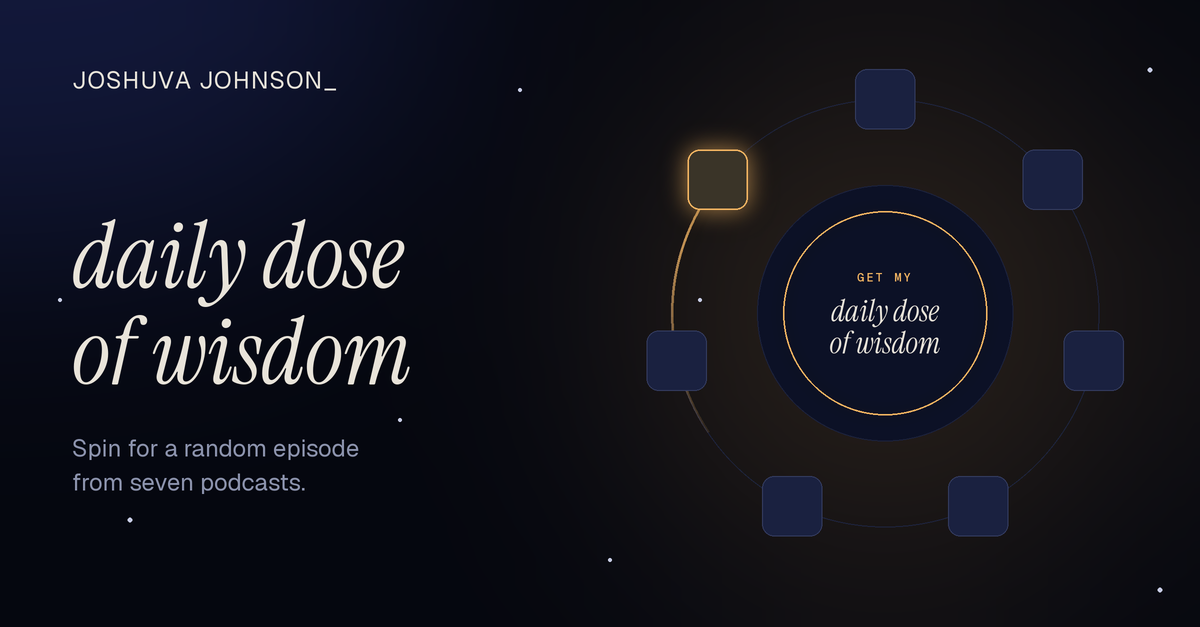
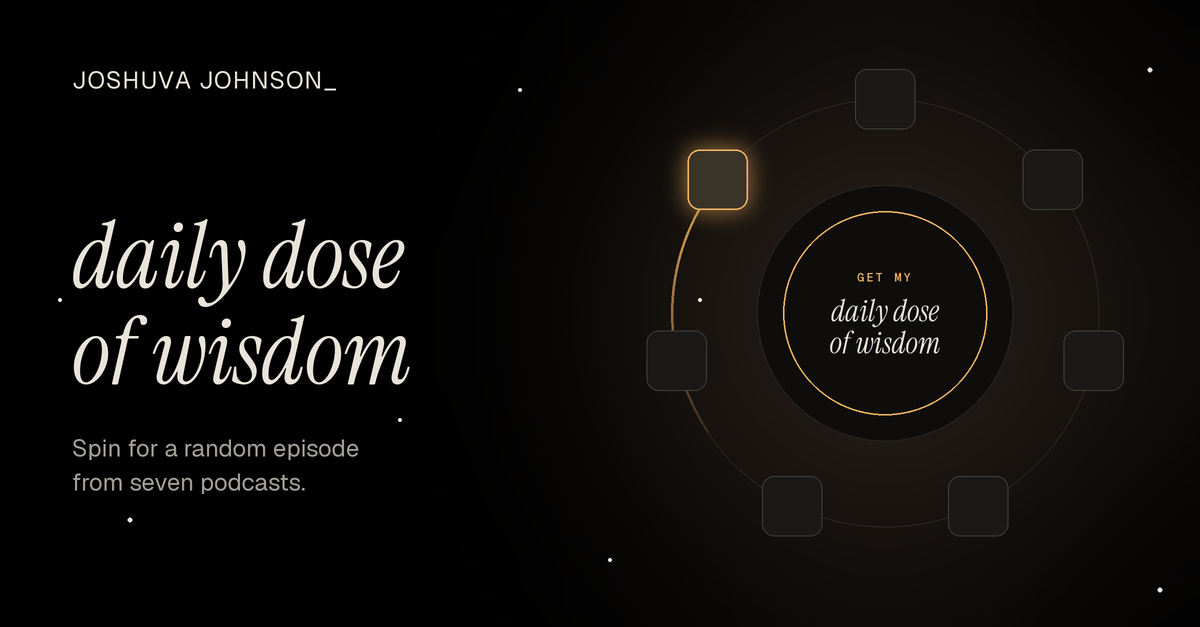
daily dose of wisdom: black hole entrance, black theme, live star field
- Entrance (about 2.5 s, click or key to skip): light spirals into a black
  centre with a bright rim and a spinning disc, the black swallows the
  screen, a flash, and the page untwists into focus.
- Black and neutral greys replace the navy and violet; lamp amber and
  starlight text kept. Door from other pages is black with a rim of light.
- Stars drawn on a canvas: each twinkles on its own clock, random ones
  flare with a glint, and a shooting star crosses every 2.5-7 s.
- Lamp glow moved behind the wheel (the fixed drifting layer cost frames).

Claude-Session: https://claude.ai/code/session_01Dc4KQMDr4px4SMpMrXU2Lh

diff --git a/assets/wisdom.css b/assets/wisdom.css
@@ -1,41 +1,34 @@
 /* daily dose of wisdom: a different room from the rest of the site.
-   Midnight, starlight text, and one warm lamp-light colour for whatever is lit.
+   Black, starlight text, and one warm lamp-light colour for whatever is lit.
    The name is always set in lowercase Instrument Serif italic; Geist and Geist Mono for everything you press.
    Everything that moves is transform or opacity, so the GPU does the work. */
 
 @font-face{font-family:"Instrument Serif";font-style:italic;font-weight:400;font-display:swap;src:url(/assets/fonts/instrument-serif-latin-400-italic.woff2) format("woff2")}
 @font-face{font-family:"Instrument Serif";font-style:normal;font-weight:400;font-display:swap;src:url(/assets/fonts/instrument-serif-latin-400-normal.woff2) format("woff2")}
 
-:root:has(body.wisdom){color-scheme:dark;background:#05070F}
+:root:has(body.wisdom){color-scheme:dark;background:#000}
 body.wisdom{
-  --night:#05070F;
-  --navy:#0B1022;
+  --night:#000;
+  --navy:#121110;
   --star:#E9E4DA;
-  --mist:#8C93AD;
+  --mist:#A29D97;
   --lamp:#F3B562;
   --lamp-rgb:243,181,98;
   --serif:"Instrument Serif",Georgia,"Times New Roman",serif;
   --orbit:240s;
-  --bg:var(--night);--ink:var(--star);--ink2:var(--mist);--rule:#1A2140;--surface:var(--navy);--quiet:#3A4266;--panel:var(--night);
-  color-scheme:dark;background:var(--night);color:var(--star)
+  --bg:var(--night);--ink:var(--star);--ink2:var(--mist);--rule:#2E2B28;--surface:#141312;--quiet:#4A4642;--panel:var(--night);
+  color-scheme:dark;background:none;color:var(--star) /* the black lives on the root, so the sky can sit behind the page */
 }
 .wisdom ::selection{background:var(--lamp);color:var(--night)}
 .wisdom :focus-visible{outline-color:var(--lamp)}
 .wisdom main{position:relative;overflow:hidden}
+.wisdom footer{background:#000;border-top:1px solid #1C1A18}
 
-/* ---------- The sky: lamp glow behind the wheel, indigo haze that drifts, stars that twinkle ---------- */
-.wisdom main::before{content:"";position:fixed;inset:-10%;z-index:-2;pointer-events:none;background:
-  radial-gradient(40% 36% at 50% 56%,rgba(var(--lamp-rgb),.11),transparent 70%),
-  radial-gradient(60% 50% at 18% 2%,rgba(72,88,180,.26),transparent 70%),
-  radial-gradient(55% 45% at 92% 98%,rgba(96,66,170,.2),transparent 70%);
-  animation:wz-drift 38s ease-in-out infinite alternate}
-@keyframes wz-drift{to{transform:translate3d(-3%,2%,0) scale(1.06)}}
-.wz-sky{position:fixed;inset:0;z-index:-1;pointer-events:none}
-.wz-sky i{position:absolute;inset:0;animation:wz-twinkle 6s ease-in-out infinite alternate}
-.wz-sky i:nth-child(1){background:radial-gradient(1px 1px at 23px 41px,#fff,transparent),radial-gradient(1px 1px at 131px 97px,#cfd6ff,transparent);background-size:211px 199px,263px 241px;opacity:.55}
-.wz-sky i:nth-child(2){background:radial-gradient(1.5px 1.5px at 71px 163px,#fff,transparent),radial-gradient(1px 1px at 197px 19px,#ffe9c7,transparent);background-size:317px 283px,379px 331px;animation-duration:8.5s;animation-delay:-3s}
-.wz-sky i:nth-child(3){background:radial-gradient(2px 2px at 150px 90px,rgba(255,240,215,.9),transparent),radial-gradient(1.5px 1.5px at 40px 260px,#dfe4ff,transparent);background-size:523px 467px,601px 557px;animation-duration:11s;animation-delay:-6s}
-@keyframes wz-twinkle{0%{opacity:.15}100%{opacity:.85}}
+/* ---------- The sky: black, a faint lamp glow behind the wheel, and a canvas of stars drawn by the script ---------- */
+/* The lamp glow sits behind the wheel itself, so it costs nothing per frame. */
+.wz-stage::before{content:"";position:absolute;left:50%;top:50%;width:150%;aspect-ratio:1;transform:translate(-50%,-50%);z-index:-1;pointer-events:none;
+  background:radial-gradient(closest-side,rgba(var(--lamp-rgb),.12),rgba(var(--lamp-rgb),.04) 55%,transparent 75%)}
+.wz-sky{position:fixed;inset:0;width:100%;height:100%;z-index:-1;pointer-events:none}
 
 /* ---------- Title ---------- */
 .wz{text-align:center;padding-block:40px 88px}
@@ -82,7 +75,7 @@ body.wisdom{
 
 /* ---------- The hub: idle, it is the button; spinning, it calls out each show as the light passes ---------- */
 .wz-hub{position:absolute;left:50%;top:50%;width:62%;aspect-ratio:1;transform:translate(-50%,-50%);border-radius:50%;
-  background:radial-gradient(circle at 50% 38%,#141C3A 0,#0A0F22 55%,#070A17 100%);
+  background:radial-gradient(circle at 50% 38%,#1B1A18 0,#0D0C0B 55%,#050505 100%);
   box-shadow:0 0 0 1px rgba(233,228,218,.08),inset 0 0 60px rgba(0,0,0,.6),0 30px 80px -30px #000;display:grid;place-items:center}
 .wz-hub>*{grid-area:1/1}
 .wz-shock{position:absolute;inset:0;border-radius:50%;border:1px solid rgba(var(--lamp-rgb),.9);opacity:0;pointer-events:none}
@@ -131,7 +124,7 @@ body.wisdom{
   .wz-hub-cover{display:none}
 }
 @container wz (max-width:589px){
-  .wz-card{margin:28px auto 0;max-width:440px;padding:20px;border-radius:16px;background:linear-gradient(180deg,rgba(20,28,58,.85),rgba(10,15,34,.85));
+  .wz-card{margin:28px auto 0;max-width:440px;padding:20px;border-radius:16px;background:linear-gradient(180deg,rgba(28,27,25,.9),rgba(12,12,11,.9));
     box-shadow:0 0 0 1px rgba(233,228,218,.08),0 0 40px -10px rgba(var(--lamp-rgb),.25)}
   .wz-show{border-radius:10px}
   .wz-spin{gap:4px}
@@ -140,25 +133,45 @@ body.wisdom{
 }
 @media(max-width:640px){.wz{padding-block:32px 72px}.wz-pre{font-size:16px;line-height:24px}.wz-stage{margin-top:24px}.wz-credit{margin-top:40px}}
 
-/* ---------- The way in: a point of light opens into the room, and the page comes through it ---------- */
+/* ---------- The way in: a black hole ----------
+   Light spirals in, a disc of it spins round a black centre with a thin bright rim, then the black swallows the
+   screen, there is a flash, and the page comes out the other side. About 2.5 s; a click or key skips it. */
 .wz-portal{display:none}
-.portal .wz-portal{display:block;position:fixed;inset:0;z-index:100;pointer-events:none;background:var(--night,#05070F);
-  animation:wz-portal-fade .6s ease-out .75s forwards}
-/* Both layers are drawn at full size and grown from a point, so the ring stays a fine line as it opens. */
-.wz-portal i,.wz-portal b{position:absolute;left:50%;top:50%;width:260vmax;height:260vmax;margin:-130vmax 0 0 -130vmax;border-radius:50%;will-change:transform,opacity}
-.wz-portal i{background:radial-gradient(closest-side,#FFF4E0 0,rgba(var(--lamp-rgb),.7) 8%,rgba(var(--lamp-rgb),.18) 30%,rgba(var(--lamp-rgb),0) 60%);animation:wz-bloom 1.2s cubic-bezier(.55,0,.15,1) both}
-.wz-portal b{background:radial-gradient(closest-side,transparent calc(100% - 14px),rgba(var(--lamp-rgb),.25) calc(100% - 7px),rgba(255,232,196,.95) calc(100% - 2px),transparent 100%);animation:wz-ring 1.15s cubic-bezier(.3,0,.1,1) .06s both}
-@keyframes wz-bloom{0%{transform:scale(0);opacity:0}25%{transform:scale(.04);opacity:1}100%{transform:scale(1);opacity:0}}
-@keyframes wz-ring{0%{transform:scale(0);opacity:0}12%{opacity:1}100%{transform:scale(.62);opacity:0}}
-@keyframes wz-portal-fade{to{opacity:0;visibility:hidden}}
-.portal .wz{animation:wz-warp 1.05s cubic-bezier(.16,.84,.24,1) .5s both}
-@keyframes wz-warp{from{opacity:0;transform:scale(1.07);filter:blur(12px)}}
+.portal .wz-portal{display:block;position:fixed;inset:0;z-index:100;background:#000;overflow:hidden;cursor:pointer;
+  animation:wz-portal-out .55s ease-out 2.25s forwards}
+@keyframes wz-portal-out{to{opacity:0;visibility:hidden}}
+.portal-skip .wz-portal{display:none}
+.wz-infall{position:absolute;inset:0;width:100%;height:100%}
+.bh{position:absolute;left:50%;top:50%;border-radius:50%;pointer-events:none;will-change:transform,opacity}
+.bh-glow{width:130vmin;height:130vmin;margin:-65vmin 0 0 -65vmin;
+  background:radial-gradient(closest-side,rgba(var(--lamp-rgb),.32),rgba(var(--lamp-rgb),.1) 42%,transparent 72%);animation:bh-glow 2.4s ease-in-out both}
+@keyframes bh-glow{0%{opacity:0;transform:scale(.25)}35%{opacity:1;transform:scale(1)}70%{opacity:1;transform:scale(1.08)}100%{opacity:0;transform:scale(2.6)}}
+/* The disc: the outer box grows, falls past you and fades; the inner ring spins. */
+.bh-disk{width:66vmin;height:66vmin;margin:-33vmin 0 0 -33vmin;animation:bh-disk 2.4s cubic-bezier(.5,0,.35,1) both}
+.bh-disk i{position:absolute;inset:0;border-radius:50%;
+  background:conic-gradient(rgba(var(--lamp-rgb),0),#FFEBCB 7%,rgba(var(--lamp-rgb),.75) 16%,rgba(var(--lamp-rgb),.06) 30%,rgba(255,226,180,.85) 44%,rgba(var(--lamp-rgb),.3) 58%,rgba(var(--lamp-rgb),0) 70%,rgba(255,240,215,.9) 85%,rgba(var(--lamp-rgb),0));
+  -webkit-mask:radial-gradient(closest-side,transparent 41%,#000 46%,rgba(0,0,0,.55) 64%,transparent 100%);
+  mask:radial-gradient(closest-side,transparent 41%,#000 46%,rgba(0,0,0,.55) 64%,transparent 100%);
+  animation:wz-turn .9s linear infinite}
+@keyframes bh-disk{0%{opacity:0;transform:scale(.12) rotate(-60deg)}30%{opacity:1;transform:scale(1) rotate(0)}62%{opacity:1;transform:scale(1.05)}90%{opacity:.85;transform:scale(5)}100%{opacity:0;transform:scale(6.5)}}
+/* The event horizon: black, edged with a fine ring of light; at the end it grows until it is all you can see. */
+.bh-core{width:28vmin;height:28vmin;margin:-14vmin 0 0 -14vmin;
+  background:radial-gradient(closest-side,#000 0 92.5%,#FFF2DC 95%,rgba(var(--lamp-rgb),.55) 97%,transparent 100%);animation:bh-core 2.4s cubic-bezier(.62,0,.38,1) both}
+@keyframes bh-core{0%{transform:scale(0)}28%{transform:scale(1)}60%{transform:scale(1.08)}92%,100%{transform:scale(14)}}
+.bh-flash{position:absolute;inset:0;opacity:0;pointer-events:none;
+  background:radial-gradient(circle at 50% 50%,rgba(255,246,228,.95),rgba(var(--lamp-rgb),.4) 34%,transparent 72%);animation:bh-flash .6s ease-out 2.05s both}
+@keyframes bh-flash{0%{opacity:0}30%{opacity:1}100%{opacity:0}}
+/* Out the other side: the page untwists and comes into focus. */
+.portal .wz{animation:wz-warp 1.05s cubic-bezier(.16,.84,.24,1) 2.15s both}
+.portal-skip .wz{animation:none}
+@keyframes wz-warp{from{opacity:0;transform:scale(1.32) rotate(-9deg);filter:blur(18px)}}
 /* Then lamp light runs once along the name. */
-.wz-title{animation:wz-sheen 1.8s cubic-bezier(.4,0,.2,1) 1.3s both}
+.wz-title{animation:wz-sheen 1.8s cubic-bezier(.4,0,.2,1) 3.1s both}
+.portal-skip .wz-title{animation-delay:.3s}
 @keyframes wz-sheen{from{background-position:100% 0}to{background-position:0 0}}
 
 @media(prefers-reduced-motion:reduce){
   .portal .wz-portal{display:none}
-  .wz-card.in,.wz-title,.wisdom main::before,.wz-sky i,.wz-ring,.wz-up,.wz-spin::after{animation:none}
+  .wz-card.in,.wz-title,.wz-ring,.wz-up,.wz-spin::after{animation:none}
   .wz-title{background-position:0 0}
 }

diff --git a/assets/wisdom.js b/assets/wisdom.js
@@ -15,9 +15,131 @@
   const card = $('.wz-card'), cover = $('.wz-cover'), showName = $('.wz-show-name'), meta = $('.wz-meta');
   const title = $('.wz-ep'), audio = $('.wz-audio'), again = $('.wz-again'), apple = $('.wz-apple'), live = $('.wz-live');
 
-  // The entrance is pure CSS; take the overlay away once it has played so it never sits over the page.
+  const html = document.documentElement;
+  const rnd = (a, b) => a + Math.random() * (b - a);
+
+  // ---------- The way in: light spirals into the black hole, timed off the CSS animation of its centre ----------
   const portal = document.querySelector('.wz-portal');
-  if (portal) setTimeout(() => portal.remove(), reduce ? 0 : 1600);
+  if (portal) {
+    const done = () => { if (portal.isConnected) portal.remove(); };
+    if (reduce || !html.classList.contains('portal')) done();
+    else {
+      const core = portal.querySelector('.bh-core'), cv = portal.querySelector('.wz-infall'), c = cv.getContext && cv.getContext('2d');
+      const coreAnim = core.getAnimations ? core.getAnimations()[0] : null;
+      const t0 = performance.now();
+      const clock = () => (coreAnim && coreAnim.currentTime != null ? coreAnim.currentTime : performance.now() - t0) / 1000;
+      let running = !!c;
+      if (c) {
+        const D = Math.min(1.5, devicePixelRatio || 1), W = innerWidth, H = innerHeight, cx = W / 2, cy = H / 2;
+        cv.width = W * D; cv.height = H * D; c.setTransform(D, 0, 0, D, 0, 0);
+        const rMax = Math.hypot(W, H) / 2 * 1.05, horizon = Math.min(W, H) * 0.14; // the CSS centre is 28vmin across
+        const coreR = t => { // follows the bh-core keyframes closely enough to swallow the light at the rim
+          const k = t / 2.4;
+          if (k < 0.28) return horizon * Math.sin(k / 0.28 * Math.PI / 2);
+          if (k < 0.6) return horizon * (1 + 0.08 * (k - 0.28) / 0.32);
+          return horizon * (1.08 + 12.92 * Math.pow(Math.min(1, (k - 0.6) / 0.32), 2.2));
+        };
+        const tones = ['255,246,230', '255,232,196', '243,181,98', '255,214,160'];
+        const n = Math.min(420, Math.round(W * H / 3200));
+        const spawn = (p, outer) => {
+          p.a = rnd(0, Math.PI * 2); p.r = outer ? rMax * rnd(0.9, 1.1) : rMax * rnd(0.25, 1.1);
+          p.w = rnd(0.5, 1.7); p.v = rnd(0.6, 1.4); p.tone = tones[Math.floor(Math.random() * tones.length)]; p.age = 0;
+          return p;
+        };
+        const ps = Array.from({length: n}, () => spawn({}, false));
+        let last = clock();
+        const frame = () => {
+          if (!running) return;
+          const t = clock(), dt = Math.min(0.05, Math.max(0, t - last)); last = t;
+          c.fillStyle = 'rgba(0,0,0,0.24)'; c.fillRect(0, 0, W, H); // short trails
+          const rc = coreR(t);
+          c.lineCap = 'round';
+          for (const p of ps) {
+            if (p.dead) continue;
+            const x0 = cx + Math.cos(p.a) * p.r, y0 = cy + Math.sin(p.a) * p.r;
+            const pull = (0.35 + 2.6 * Math.pow(rMax / Math.max(p.r, 1), 0.9)) * p.v * (0.6 + t * 0.9);
+            p.r -= p.r * pull * dt * 0.55;
+            p.a += pull * dt * 0.9; // the closer it gets, the faster it turns
+            p.age += dt;
+            if (p.r <= rc * 1.02) { if (t < 1.55) spawn(p, true); else p.dead = true; continue; }
+            const x1 = cx + Math.cos(p.a) * p.r, y1 = cy + Math.sin(p.a) * p.r;
+            const alpha = Math.min(1, p.age * 3) * Math.min(1, 0.25 + 1.4 * (1 - p.r / rMax));
+            c.strokeStyle = `rgba(${p.tone},${alpha.toFixed(3)})`; c.lineWidth = p.w;
+            c.beginPath(); c.moveTo(x0, y0); c.lineTo(x1, y1); c.stroke();
+          }
+          if (t < 2.4) requestAnimationFrame(frame); else running = false;
+        };
+        requestAnimationFrame(frame);
+      }
+      const skip = () => { running = false; html.classList.add('portal-skip'); done(); };
+      portal.addEventListener('pointerdown', skip, {once: true});
+      addEventListener('keydown', function k(e) { if (!portal.isConnected) return removeEventListener('keydown', k); if (!e.metaKey && !e.ctrlKey && !e.altKey) skip(); });
+      setTimeout(() => { running = false; done(); }, 3000);
+    }
+  }
+
+  // ---------- The sky: every star keeps its own time, some flare at random, and now and then one falls ----------
+  const sky = document.querySelector('.wz-sky');
+  const ctx = sky && sky.getContext && sky.getContext('2d');
+  if (ctx) {
+    const tones = ['255,250,240', '255,238,212', '233,228,218', '255,214,160'];
+    let W = 0, H = 0, stars = [], meteors = [], nextMeteor = performance.now() + rnd(2500, 5000), lastDraw = 0;
+    const build = () => {
+      const D = Math.min(1.5, devicePixelRatio || 1);
+      W = innerWidth; H = innerHeight; sky.width = W * D; sky.height = H * D; ctx.setTransform(D, 0, 0, D, 0, 0);
+      stars = Array.from({length: Math.min(260, Math.round(W * H / 6500))}, () => ({
+        x: Math.random() * W, y: Math.random() * H, r: Math.random() < 0.86 ? rnd(0.35, 0.95) : rnd(1.05, 1.7),
+        a: rnd(0.12, 0.6), s: rnd(0.25, 1.4), p: rnd(0, 6.283), c: tones[Math.floor(Math.random() * tones.length)], f: 0, fd: 0}));
+    };
+    const draw = now => {
+      ctx.clearRect(0, 0, W, H);
+      for (const s of stars) {
+        let k = 0;
+        if (!s.f && Math.random() < 0.0009) { s.f = now; s.fd = rnd(700, 1600); } // a random star flares
+        if (s.f) { const q = (now - s.f) / s.fd; if (q >= 1) s.f = 0; else k = Math.sin(Math.PI * q); }
+        const tw = s.a * (0.55 + 0.45 * Math.sin(now / 1000 * s.s + s.p));
+        const al = Math.min(1, tw + k * 0.95), r = s.r * (1 + k * 0.9);
+        ctx.fillStyle = `rgba(${s.c},${al.toFixed(3)})`;
+        ctx.beginPath(); ctx.arc(s.x, s.y, r, 0, 6.283); ctx.fill();
+        if (k > 0.25) { // the glint of a flaring star
+          const g = r * 7 * k;
+          ctx.strokeStyle = `rgba(${s.c},${(k * 0.55).toFixed(3)})`; ctx.lineWidth = 0.7;
+          ctx.beginPath(); ctx.moveTo(s.x - g, s.y); ctx.lineTo(s.x + g, s.y); ctx.moveTo(s.x, s.y - g); ctx.lineTo(s.x, s.y + g); ctx.stroke();
+        }
+      }
+      if (now > nextMeteor) { // a shooting star, from the top half, slanting down either way
+        const dir = Math.random() < 0.5 ? -1 : 1, ang = rnd(0.32, 0.62), sp = rnd(800, 1300);
+        meteors.push({x: rnd(W * 0.15, W * 0.85), y: rnd(-20, H * 0.35), vx: Math.cos(ang) * sp * dir, vy: Math.sin(ang) * sp, len: rnd(140, 280), t0: now, life: rnd(700, 1100)});
+        nextMeteor = now + rnd(2500, 7000);
+      }
+      meteors = meteors.filter(m => now - m.t0 < m.life);
+      for (const m of meteors) {
+        const e = (now - m.t0) / 1000, q = (now - m.t0) / m.life, al = Math.sin(Math.PI * q);
+        const hx = m.x + m.vx * e, hy = m.y + m.vy * e, sp = Math.hypot(m.vx, m.vy), L = m.len * Math.min(1, q * 3);
+        const tx = hx - m.vx / sp * L, ty = hy - m.vy / sp * L;
+        const gr = ctx.createLinearGradient(tx, ty, hx, hy);
+        gr.addColorStop(0, 'rgba(255,236,205,0)'); gr.addColorStop(1, `rgba(255,246,228,${al.toFixed(3)})`);
+        ctx.strokeStyle = gr; ctx.lineWidth = 1.6; ctx.lineCap = 'round';
+        ctx.beginPath(); ctx.moveTo(tx, ty); ctx.lineTo(hx, hy); ctx.stroke();
+        ctx.fillStyle = `rgba(255,248,235,${al.toFixed(3)})`; ctx.beginPath(); ctx.arc(hx, hy, 1.6, 0, 6.283); ctx.fill();
+      }
+    };
+    build();
+    if (reduce) draw(0); // a still sky
+    else {
+      const loop = now => {
+        // Full rate while a star is falling, half rate otherwise (it only twinkles),
+        // and the sky holds still while the wheel spins so the spin gets every frame.
+        const busy = root.dataset.state === 'spinning';
+        if (busy) nextMeteor = Math.max(nextMeteor, now + 1500);
+        if (meteors.length || (!busy && now - lastDraw > 32)) { draw(now); lastDraw = now; }
+        requestAnimationFrame(loop);
+      };
+      requestAnimationFrame(loop);
+    }
+    let rt = 0;
+    addEventListener('resize', () => { clearTimeout(rt); rt = setTimeout(() => { build(); if (reduce) draw(0); }, 150); });
+  }
 
   const art = (s, px) => `${s.art}/${px}x${px}bb.jpg`;
   const rand = n => { const a = new Uint32Array(1); crypto.getRandomValues(a); return a[0] % n; };

diff --git a/assets/site.css b/assets/site.css
@@ -73,9 +73,9 @@ main>section:last-child,main>.sec:last-child{padding-bottom:112px}
   .nav .wrap{justify-content:flex-start;column-gap:20px}.nav .links{display:contents}.nav .links li{order:2}.nav .links .door{order:1;margin-left:auto}
   .nav .links a.dose{font-size:17px}}
 @media(max-width:400px){.nav .wrap{column-gap:12px}.nav .mark{font-size:15px}.nav .links a.dose{font-size:16px}.links a.dose::before{margin-right:6px}}
-/* Going through that door: midnight opens from where you clicked. */
+/* Going through that door: black, with a rim of light, opens from where you clicked. */
 .portal-out{position:fixed;z-index:200;left:var(--x);top:var(--y);width:300vmax;height:300vmax;margin:-150vmax 0 0 -150vmax;border-radius:50%;pointer-events:none;
-  background:radial-gradient(closest-side,#05070F 0 96%,rgba(243,181,98,.55) 98.5%,rgba(243,181,98,0) 100%);transform:scale(0);animation:portal-out .55s cubic-bezier(.7,0,.25,1) forwards}
+  background:radial-gradient(closest-side,#000 0 96%,rgba(255,236,205,.8) 97.6%,rgba(243,181,98,.45) 98.6%,rgba(243,181,98,0) 100%);transform:scale(0);animation:portal-out .55s cubic-bezier(.7,0,.25,1) forwards}
 @keyframes portal-out{to{transform:scale(1)}}
 
 /* ---------- Footer: always ends on black ---------- */

diff --git a/wisdom/index.html b/wisdom/index.html
@@ -18,7 +18,7 @@
 <meta name="twitter:card" content="summary_large_image">
 <link rel="preload" href="/assets/fonts/instrument-serif-latin-400-italic.woff2" as="font" type="font/woff2" crossorigin>
 <link rel="stylesheet" href="/assets/wisdom.css">
-<meta name="theme-color" content="#05070F">
+<meta name="theme-color" content="#000000">
 <script>if(!matchMedia("(prefers-reduced-motion: reduce)").matches)document.documentElement.classList.add("portal")</script>
 <script src="/assets/wisdom.js" defer></script>
 <meta name="author" content="Joshuva Johnson">
@@ -48,8 +48,14 @@
 </nav>
 
 <main id="main">
-<div class="wz-portal" aria-hidden="true"><i></i><b></b></div>
-<div class="wz-sky" aria-hidden="true"><i></i><i></i><i></i></div>
+<div class="wz-portal" aria-hidden="true">
+  <canvas class="wz-infall"></canvas>
+  <div class="bh bh-glow"></div>
+  <div class="bh bh-disk"><i></i></div>
+  <div class="bh bh-core"></div>
+  <div class="bh-flash"></div>
+</div>
+<canvas class="wz-sky" aria-hidden="true"></canvas>
 <section class="wz gut" data-state="idle" aria-labelledby="wz-title">
   <h1 class="wz-title" id="wz-title">daily dose of wisdom</h1>
   <p class="wz-pre">Get your daily dose of wisdom here.</p>

diff --git a/src/content/pages/wisdom.html b/src/content/pages/wisdom.html
@@ -11,8 +11,14 @@
  ]
 }
 -->
-<div class="wz-portal" aria-hidden="true"><i></i><b></b></div>
-<div class="wz-sky" aria-hidden="true"><i></i><i></i><i></i></div>
+<div class="wz-portal" aria-hidden="true">
+  <canvas class="wz-infall"></canvas>
+  <div class="bh bh-glow"></div>
+  <div class="bh bh-disk"><i></i></div>
+  <div class="bh bh-core"></div>
+  <div class="bh-flash"></div>
+</div>
+<canvas class="wz-sky" aria-hidden="true"></canvas>
 <section class="wz gut" data-state="idle" aria-labelledby="wz-title">
   <h1 class="wz-title" id="wz-title">daily dose of wisdom</h1>
   <p class="wz-pre">Get your daily dose of wisdom here.</p>

diff --git a/src/og.py b/src/og.py
@@ -266,19 +266,18 @@ def serif_italic(size):
 def wisdom_image():
     """daily dose of wisdom: the name in the page's serif on midnight, and the wheel with its light."""
     import math
-    NIGHT, STAR, MIST, LAMP = (5, 7, 15), (233, 228, 218), (140, 147, 173), (243, 181, 98)
+    NIGHT, STAR, MIST, LAMP = (0, 0, 0), (233, 228, 218), (162, 157, 151), (243, 181, 98)
     im = Image.new('RGB', (W * S, H * S), NIGHT)
-    # Warm glow behind the wheel and indigo haze top left, drawn soft.
+    # Warm glow behind the wheel, drawn soft.
     glow = Image.new('RGB', (W * S, H * S), NIGHT)
     g = ImageDraw.Draw(glow)
     cx, cy, R = 885, 313, 214
     g.ellipse([(cx - 260) * S, (cy - 260) * S, (cx + 260) * S, (cy + 260) * S], fill=(40, 32, 26))
-    g.ellipse([-260 * S, -300 * S, 420 * S, 240 * S], fill=(18, 24, 58))
     im = Image.blend(im, glow.filter(ImageFilter.GaussianBlur(120 * S)), 1.0)
     d = ImageDraw.Draw(im)
     for i, (x, y) in enumerate([(130, 520), (520, 90), (610, 560), (1150, 70), (700, 300), (60, 300), (1160, 590), (400, 420)]):
         r = (1.6 if i % 3 else 2.2) * S
-        d.ellipse([x * S - r, y * S - r, x * S + r, y * S + r], fill=(200, 205, 230))
+        d.ellipse([x * S - r, y * S - r, x * S + r, y * S + r], fill=(235, 230, 220))
     tracked(d, M, M - 8, 'JOSHUVA JOHNSON_', sans(24, 400), STAR, 0.04)
     f = serif_italic(92)
     for k, line in enumerate(['daily dose', 'of wisdom']):
@@ -286,7 +285,7 @@ def wisdom_image():
     d.text((M * S, 432 * S), 'Spin for a random episode', font=sans(24), fill=MIST)
     d.text((M * S, 466 * S), 'from seven podcasts.', font=sans(24), fill=MIST)
     # Orbit, then the light running round it (a soft copy underneath for the glow).
-    d.ellipse([(cx - R) * S, (cy - R) * S, (cx + R) * S, (cy + R) * S], outline=(30, 36, 62), width=2)
+    d.ellipse([(cx - R) * S, (cy - R) * S, (cx + R) * S, (cy + R) * S], outline=(42, 40, 37), width=2)
     arc = Image.new('RGBA', (W * S, H * S), (0, 0, 0, 0))
     a = ImageDraw.Draw(arc)
     box = [(cx - R) * S, (cy - R) * S, (cx + R) * S, (cy + R) * S]
@@ -309,10 +308,10 @@ def wisdom_image():
             im.paste(halo, (0, 0), halo)
             d = ImageDraw.Draw(im)
         d.rounded_rectangle([(x - h) * S, (y - h) * S, (x + h) * S, (y + h) * S], 12 * S,
-                            fill=(26, 33, 64) if not lit else (58, 52, 40), outline=LAMP if lit else (52, 60, 96), width=3 if lit else 2)
+                            fill=(26, 25, 23) if not lit else (58, 52, 40), outline=LAMP if lit else (66, 63, 58), width=3 if lit else 2)
     # The hub and its lamp-light ring.
     hr = 128
-    d.ellipse([(cx - hr) * S, (cy - hr) * S, (cx + hr) * S, (cy + hr) * S], fill=(12, 17, 38), outline=(28, 34, 60), width=2)
+    d.ellipse([(cx - hr) * S, (cy - hr) * S, (cx + hr) * S, (cy + hr) * S], fill=(14, 13, 12), outline=(40, 38, 35), width=2)
     rr = 102
     ring = Image.new('RGBA', (W * S, H * S), (0, 0, 0, 0))
     ImageDraw.Draw(ring).ellipse([(cx - rr) * S, (cy - rr) * S, (cx + rr) * S, (cy + rr) * S], outline=LAMP + (255,), width=3)

diff --git a/src/build.py b/src/build.py
@@ -422,7 +422,7 @@ def main():
                       separators=(',', ':'), ensure_ascii=False).replace('</', '<\\/')
     head = ('<link rel="preload" href="/assets/fonts/instrument-serif-latin-400-italic.woff2" as="font" type="font/woff2" crossorigin>\n'
             '<link rel="stylesheet" href="/assets/wisdom.css">\n'
-            '<meta name="theme-color" content="#05070F">\n'
+            '<meta name="theme-color" content="#000000">\n'
             '<script>if(!matchMedia("(prefers-reduced-motion: reduce)").matches)document.documentElement.classList.add("portal")</script>\n'
             '<script src="/assets/wisdom.js" defer></script>\n')
     content = content.replace('{{WZ_TILES}}', '\n'.join(tiles)).replace('{{WZ_DATA}}', data)
